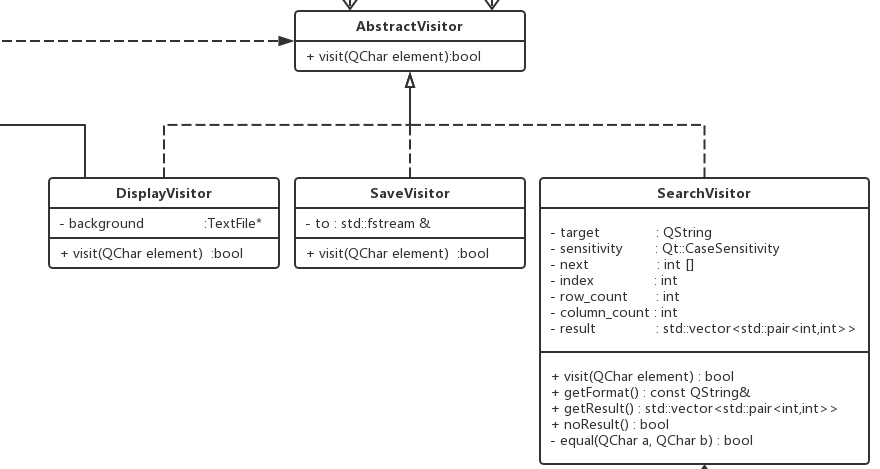
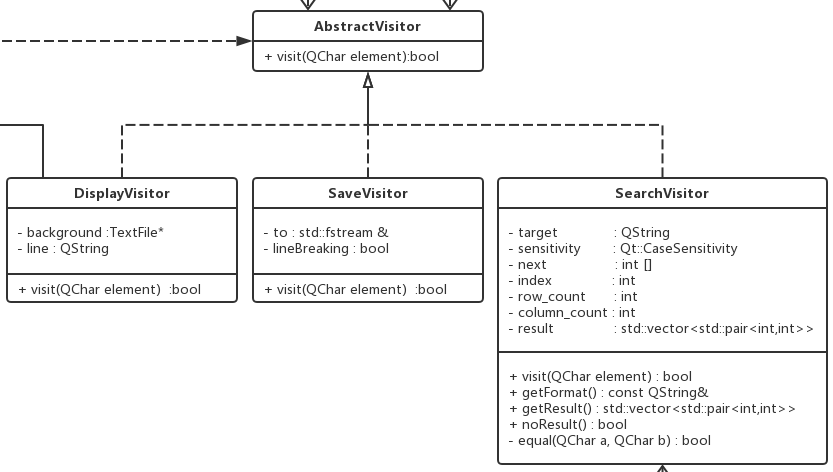
完成数据结构说明和数据字典

Changed region(s): [[0.0, 0.0, 0.9988, 1.0], [0.0, 0.2388, 0.0936, 0.2687], [0.5306, 0.0, 0.593, 0.0299]]

diff --git a/docs/数据结构说明和数据字典.md b/docs/数据结构说明和数据字典.md
@@ -3,18 +3,102 @@
 ![Class Diagrams](Class%20Diagrams.png)
 
 
-## 1. 基本数据结构
+# 1. 基本数据结构
 ![base](base%20structure.png)
 
+## TextStructure
+维护一组TextRow的链表（std::list），是内存中的文本文档的抽象。  
 
-## 2. Visitor继承体系
+提供对文本文件内容的读取`data()`、插入`insert()`、删除`erase()`，这三个功能各有两个重载函数，一个是对单个字符的操作，另一个是对字符串的操作。  
+提供对文本文档内容的逐字符遍历操作`traverse()`。
+
+## TextRow
+维护一组字符（QChar）的数组（std::vector），是文本文档中一行字符的抽象。  
+
+提供对一行内容的读取（下标运算符）、插入`insert()`、删除`erase()`操作。其中插入、删除各有两个重载版本，一个处理单个字符，另一个处理字符串。 
+提供获取本行长度的操作`size()`。  
+提供对一行内容的逐字符遍历操作`traverse()`。
+
+
+# 2. Visitor继承体系
 ![visitor](visitor.png)
 
+## [Interface] AbstractVisitor
+visitor们的接口，提供公共操作`visit()`，用于访问底层数据结构的每个节点（字符）。
 
-## 3. Command继承体系
+## DisplayVisitor
+用于将刚加载到内存中的文件显示在UI界面上。  
+
+维护一个`TextFile`的指针，用于发出更新UI内容的信号。  
+维护一个`QString`，用于储存读到的文件中的一行内容。
+
+## SaveVisitor
+用于将内存中的数据结构以文本文档(.txt)的形式储存到硬盘中。  
+
+维护一个文件流的引用，用于定位在硬盘中的储存位置。  
+维护一个是否输出换行符的标志，用于处理文档末尾的（可能存在的）换行符。
+
+## SearchVisitor
+用于完成搜索操作，内部融合了（加强版的）KMP算法。  
+
+提供得到要搜索的模式串的操作`getFormat()`。  
+提供获取搜索结果的操作`getResult()`。  
+提供判断是否没有找到匹配串的操作`noResult()`。  
+私有成员函数`equal()`用于判断两个字符是否相等（依据构造函数中传入的`Qt::CaseSensitivity`类型参数`cs`判断）。  
+
+`target`表示要搜索的模式串，`sensitivity`表示大小写是否敏感，`next`数组辅助KMP算法判断某个字符匹配不成功时的下一个状态。`index`表示当前要匹配的字符对应`next`数组中哪个下标。`row_count`和`column_count`记录当前访问的字符位于第几行第几列。`result`是装着搜索结果的容器。
+
+# 3. Command继承体系
 ![command](command.png)
 
+## [Interface] EditCommand
+commands的接口，提供公共操作函数调用运算符，撤销/重做造作。
 
-## 4. Mediator
+## EraseCommand
+删除操作。  
+`token`用于判别删除的是字符还是字符串。  
+`begin`和`end`用于表示删除操作的起始位置和终止位置（左闭右开的区间）。  
+`character`储存要擦除的字符。  
+`chunk`储存要擦除的字符串。  
+`invoker`用于发出通知UI界面做出更改的信号。  
+`receiver`储存要进行操作的底层数据结构。
+
+## InsertCommand
+插入操作。  
+各成员变量与`EraseCommand`都是对应的。见上。
+
+## ReplaceCommand
+替换操作。  
+`visitor`中储存着搜索结果和要替换的模式串。  
+`newString`是用于替换老串的新串。  
+`invoker`用于发出通知UI界面做出更改的信号。  
+`receiver`储存要进行操作的底层数据结构。
+
+
+# 4. Mediator
 ![mediator](mediator.png)
 
+## Application
+支持应用层级的操作，关于文件的操作是由这里提供顶层实现。  
+
+维护一个`TextFile`的列表，表示当前在应用中打开的文件们。  
+`current`是指示当前文件的迭代器。  
+
+`addFile()`打开一个新文件，可以是空的，也可以是已经存在的，由参数决定。  
+`save()`保存当前文件。  
+`saveAs()`另存为。  
+`close()`关闭当前文件文件。  
+`closeAll()`关闭所文件（退出应用时会调用）。  
+`saveAll()`保存所有文件。  
+`currentFile()`返回当前文件。  
+`setCurrentFile()`设置当前文件。  
+`fileLoaded()`文件加载成功的信号。  
+
+
+## TextFile
+表示一个文本文件，对应着一个内存中的底层文档数据结构，也关联着一个硬盘上的文件位置（可能为空）。  
+提供执行在单个文件上的编辑操作，包括插入、删除、复制、粘贴、搜索、替换、撤销、重做等。还提供了对单个文件进行保存、关闭的底层操作。  
+维护了一个`EditCommand`的列表，用于支持撤销、重做操作。  
+
+
+>更详细介绍见模块设计说明
